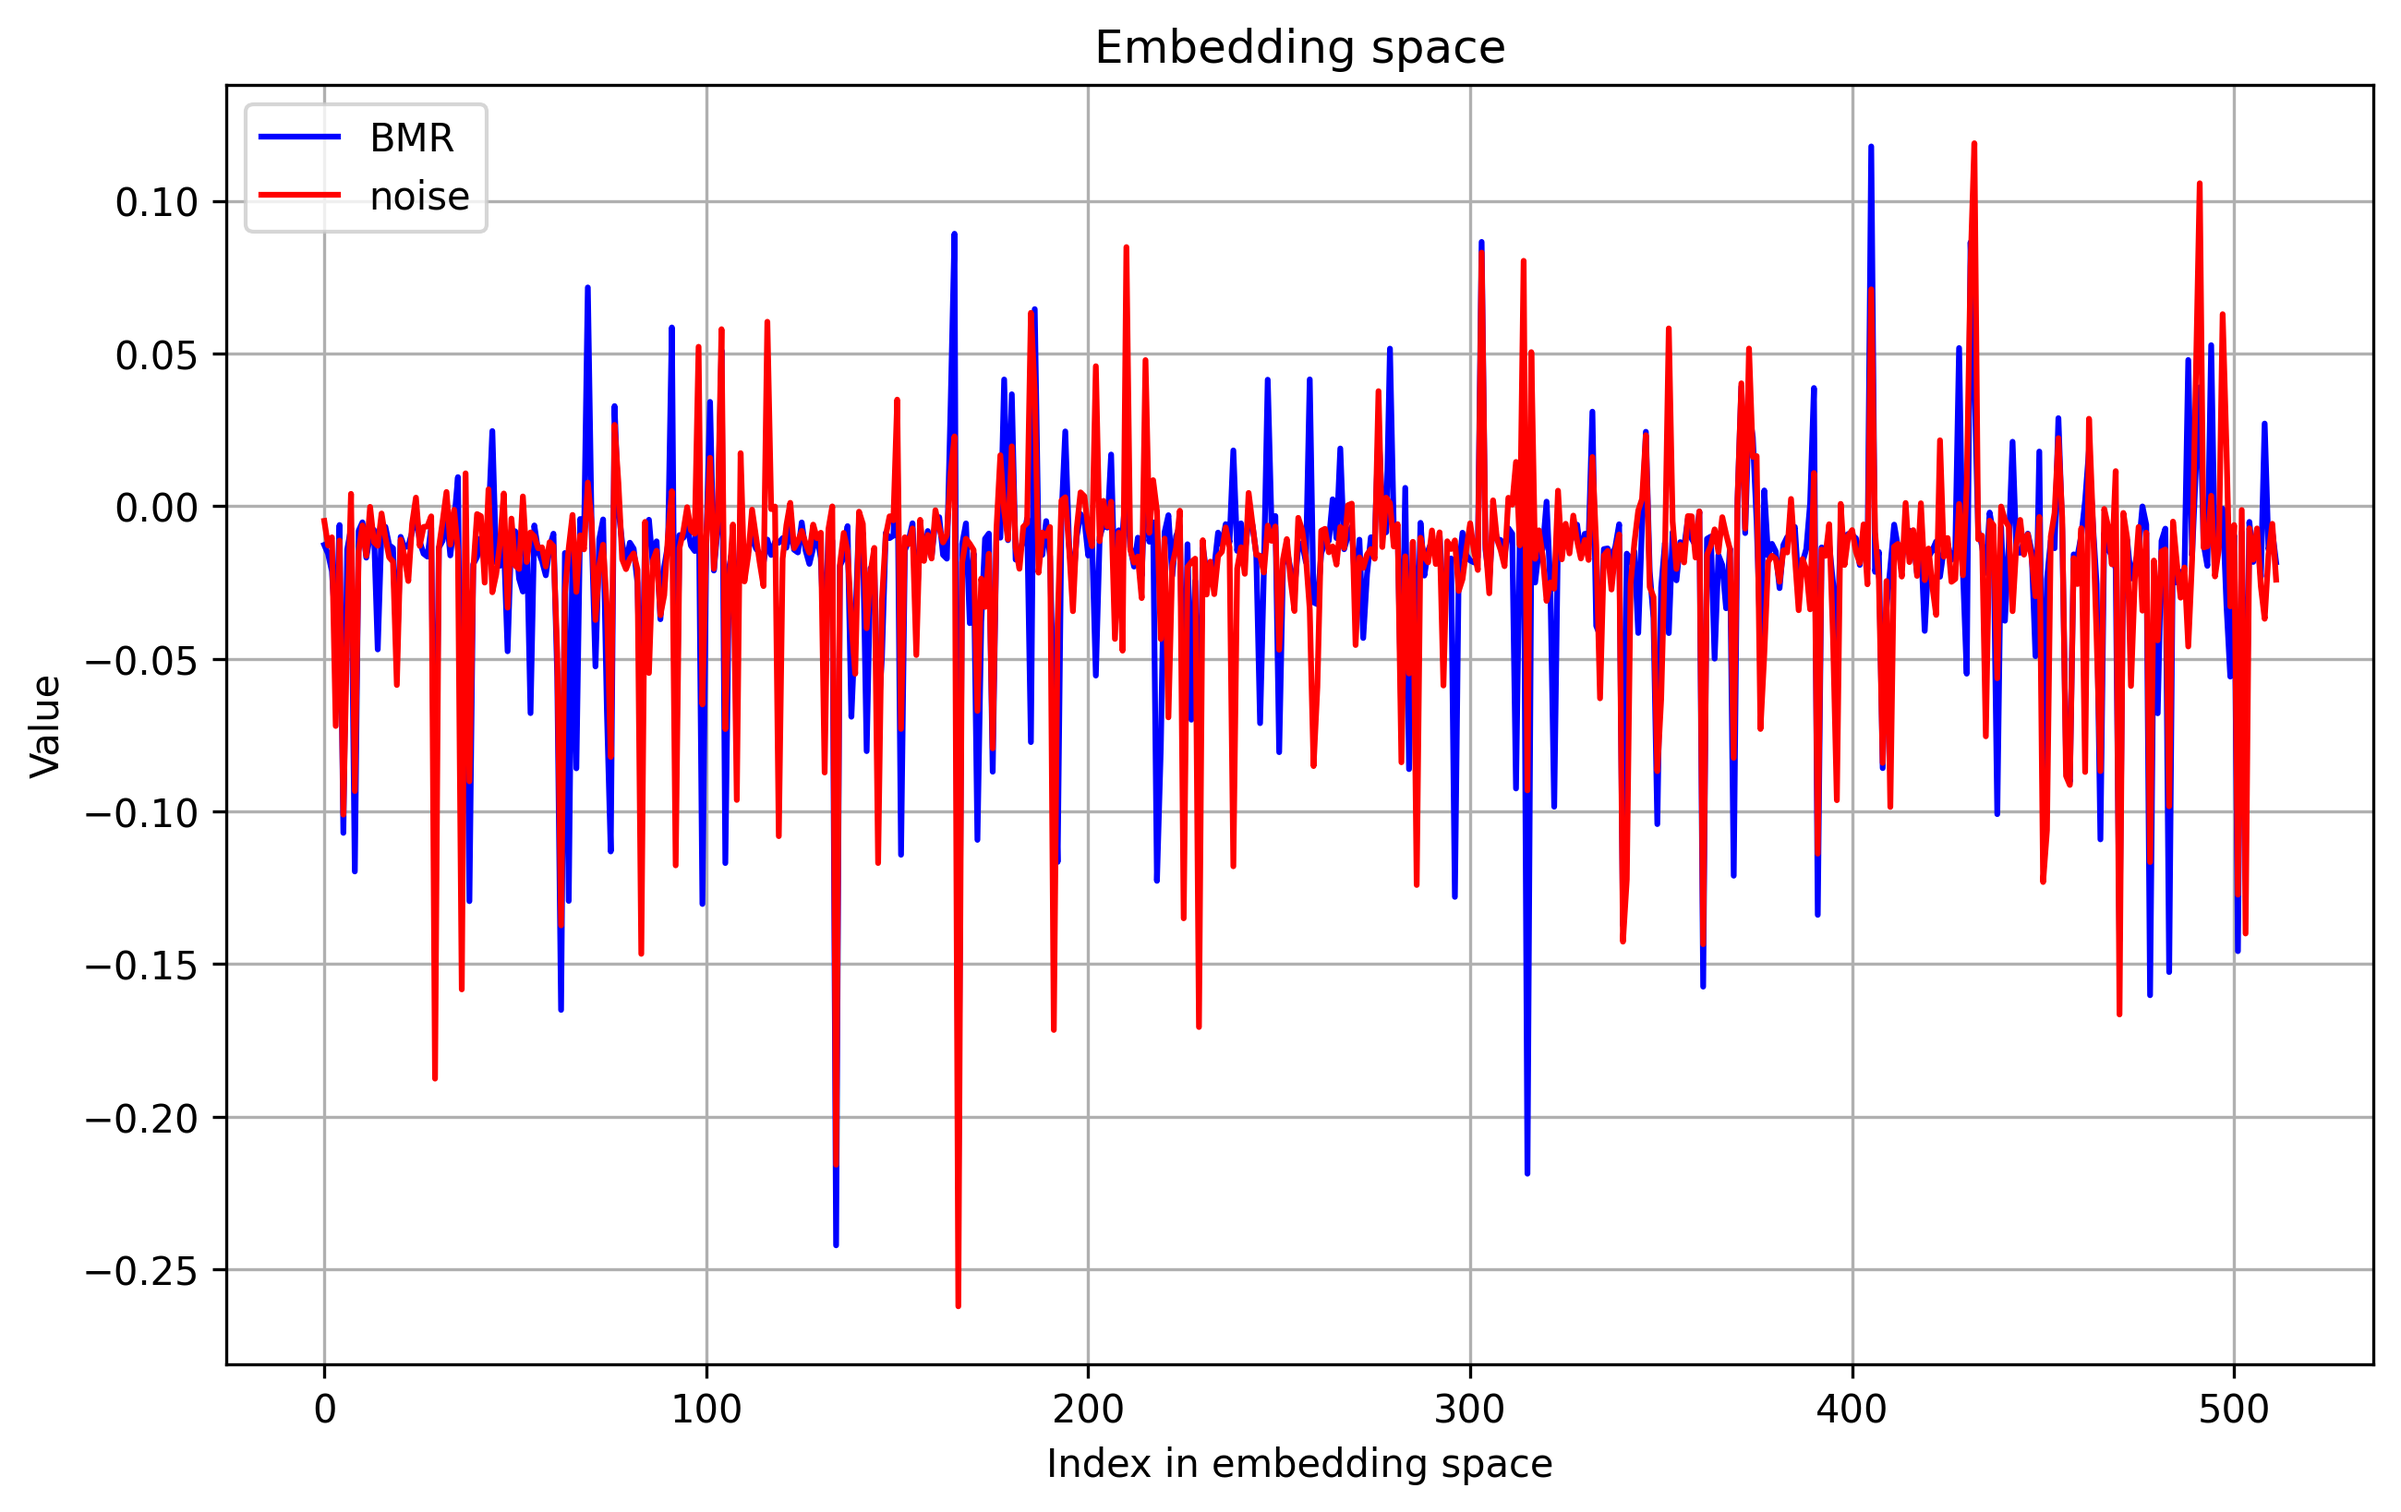
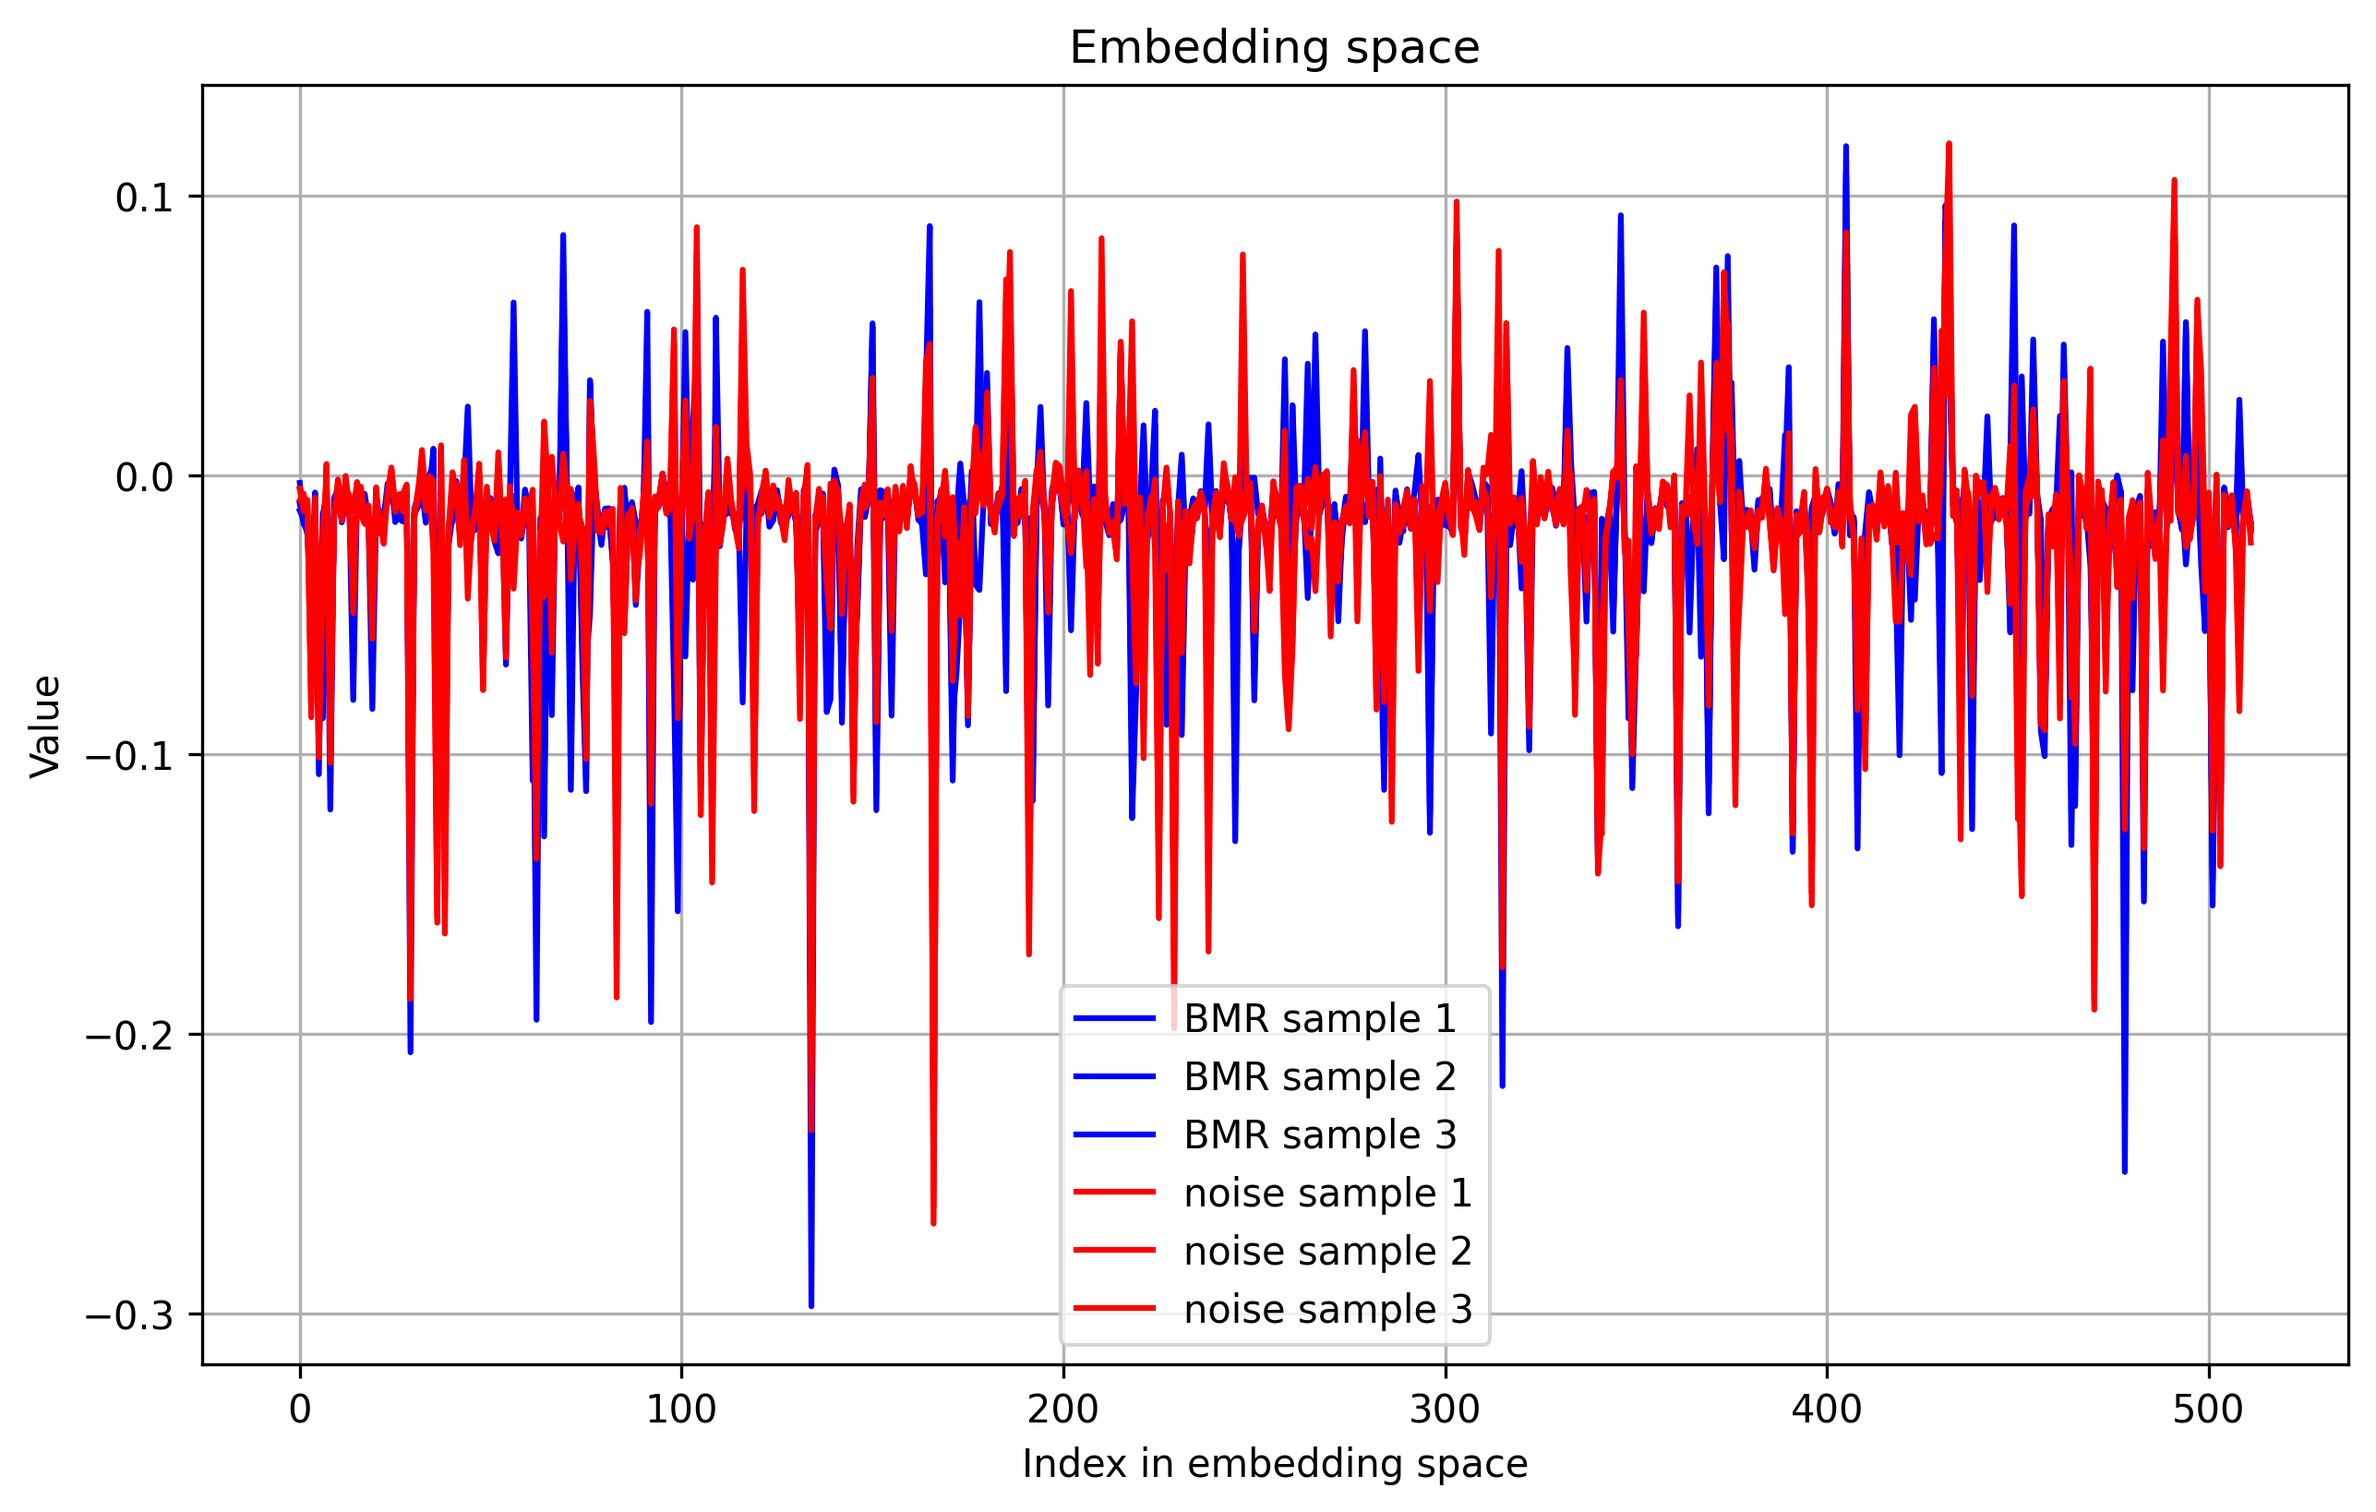
push improved README.md

diff --git a/plot_embedding_space.py b/plot_embedding_space.py
@@ -12,10 +12,10 @@ def plot_csv_rows(csv_path_1, csv_path_2, amount_to_plot=1, export=False):
     plt.figure(figsize=(10, 6))
     for i in range(df1.shape[0]):  # Iterate over rows
         if i < amount_to_plot:
-          plt.plot(df1.columns, df1.iloc[i], "b", label="BMR")
+          plt.plot(df1.columns, df1.iloc[i], "b", label=f"BMR sample {i + 1}")
     for i in range(df2.shape[0]):  # Iterate over rows
       if i < amount_to_plot:
-        plt.plot(df2.columns, df2.iloc[i], "r", label="noise")
+        plt.plot(df2.columns, df2.iloc[i], "r", label=f"noise sample {i + 1}")
     plt.title("Embedding space")
     plt.xlabel("Index in embedding space")
     plt.ylabel("Value")
@@ -30,4 +30,4 @@ path_to_embeddings = "Embeddings"
 csv_file_1 = os.path.join(path_to_embeddings, "R1S1_embeddings_ch0_label1.csv")   # Make sure this file is BMR
 csv_file_2 = os.path.join(path_to_embeddings, "R1S1_embeddings_ch0_label2.csv")   # Make sure this file is noise
 
-plot_csv_rows(csv_file_1, csv_file_2, 1, True)
+plot_csv_rows(csv_file_1, csv_file_2, 3, True)

diff --git a/README.md b/README.md
@@ -9,11 +9,28 @@ This project is done in cooperation with prof. Yossi Yovel from Tel-Aviv Univers
 ## The dataset
 The dataset consist of 5 different BMR that communicate. The audio is given in labeled multi-channel WAV files.
 
+## Analyzing the data
+The plot shows a pulse created by a BMR, presented in time domain and in frequency domain (FFT and STFT). 
+Out of those three representations of the data, the clearest representation of the pulse is the time domain representation.
+Therefore, classification in time domain was chosen over classification in frequency domain.
+
+
+<img src="BMR in domains.png" alt="Plot Example" width="700" height="400">
+
+
 ## The classifier
 The classifier consists of 2 parts:
 
 1. WavLM encoder, description in this paper: https://arxiv.org/abs/2110.13900.
 2. Classification over the embedding space of the encoder, a few methods were tested.
+
+Over all, the classification is between 5 classes of BMR and one class of noise (6 classes in total).
+
+## Noise handling
+Initially, the recordings were sampled uniformly, to get a notion how significant is the noise. 
+Classification between samples from different recordings reached accuracy of about 90%. 
+Conclusion is that the background noise is significant, and to get accurate classification, 
+it is necessary to distinguish also between noise and BMR, not only between different BMR individuals.
 
 ## Results
 
@@ -26,3 +43,16 @@ The classifier consists of 2 parts:
 | FC-NN | 0.7673 | 21.4524 |
 | FC-NN | 0.7663 | 21.0988 |
 | LSTM | 0.7715 | 23.26 |
+
+## The embedding space
+
+The plot shows samples containing pulses created by BMR, and samples containing only channel noise.  
+
+<img src="Embedding_space_plot.png" alt="Plot Example" width="500" height="300">
+
+Some trends may be seen, however, it is not clear what makes the classification possible.
+
+## Conclusions
+
+Empirically, classification between different BMR individuals and between noise is demonstrated.
+However, the properties of the audio that allow the classification are not clear.
